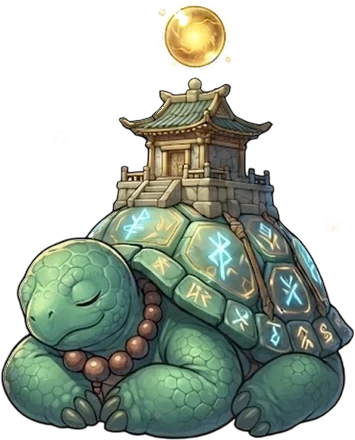
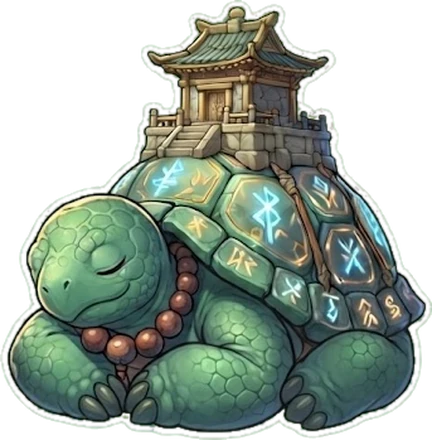
Compagnons couchés : nouvelles images sur fond uni, détourage propre (sans liseré blanc ni vert)
Claude-Session: https://claude.ai/code/session_014VBvzn7cPipHkoepy8RC9p

diff --git a/index.html b/index.html
@@ -6000,7 +6000,7 @@ var COMP = {
     pup: [{eyes: [[0.27, 0.355, 0.045, 0.045], [-1, -1, 0.01, 0.01]], head: [[0.18, 0.36], [0.32, 0.46], 0.25], tail: [[0.5, 0.3], [0.52, 0.12], 0.15], glow: [[0.52, 0.12, 0.12]], ts: 0.5},
       {eyes: [[0.18, 0.415, 0.03, 0.03], [-1, -1, 0.01, 0.01]], head: [[0.16, 0.42], [0.28, 0.48], 0.16], tail: [[0.55, 0.25], [0.56, 0.12], 0.14], glow: [[0.56, 0.14, 0.08], [0.65, 0.45, 0.2]], ts: 0.5},
       {eyes: [[0.177, 0.473, 0.025, 0.02], [-1, -1, 0.01, 0.01]], head: [[0.15, 0.49], [0.27, 0.55], 0.14], tail: [[0.45, 0.25], [0.45, 0.05], 0.1], glow: [[0.45, 0.04, 0.08], [0.7, 0.55, 0.2]], ts: 0.5}]}};
-var COMP_SL = {"panda":[[532,440,34,7],[724,440,35,6],[553,440,32,2]],"rhino":[[579,440,30,2],[636,440,29,4],[548,440,21,21]],"axolotl":[[457,440,28,13],[426,440,46,9],[562,440,35,4]],"lion":[[524,440,34,2],[577,440,32,7],[453,440,46,2]],"sanglier":[[564,440,29,7],[532,440,31,11],[463,440,35,2]],"panthere":[[727,440,42,2],[707,440,71,11],[795,440,47,25]],"ours":[[502,440,20,19],[633,440,35,34],[625,440,23,15]],"pegase":[[666,440,27,2],[689,440,19,10],[604,440,22,2]],"renard":[[460,440,39,2],[609,440,17,6],[572,440,17,15]],"tortue":[[600,440,22,27],[424,440,14,52],[355,440,26,56]]}; // images couchées (largeur, hauteur, point au-dessus de la tête en %) pour le Repos
+var COMP_SL = {"panda":[[533,440,28,4],[580,356,22,2],[550,440,15,3]],"rhino":[[492,376,25,2],[600,418,28,3],[387,440,28,4]],"axolotl":[[398,404,33,12],[428,440,58,15],[414,440,18,2]],"lion":[[502,420,28,3],[579,440,22,2],[351,440,30,2]],"sanglier":[[478,376,20,3],[529,440,12,8],[361,440,18,2]],"panthere":[[506,304,36,6],[550,366,75,12],[509,440,30,5]],"ours":[[480,420,28,14],[562,390,33,12],[414,440,26,10]],"pegase":[[474,314,20,2],[596,376,14,3],[392,440,8,6]],"renard":[[390,374,40,3],[596,426,22,14],[418,440,10,18]],"tortue":[[460,342,18,10],[424,440,18,42],[432,440,20,44]]}; // images couchées (largeur, hauteur, point au-dessus de la tête en %) pour le Repos
 var HATCH_LV = 5; // le premier œuf éclot au niveau 5 (environ 3 séances)
 var COMP_LIVE = true; // false = compagnons visibles seulement dans le mode test (Réglages, 7 touches sur la version)
 const compList = () => Object.keys(COMP).filter(k => COMP[k].ok); // créatures qu'on peut choisir maintenant
@@ -6226,7 +6226,7 @@ function compSrc(k) {
 }
 function compArt(k, cls = '') {
   const sl = k.st >= 0 && k.mood === 'sleep' && COMP[k.sp] && (COMP_SL[k.sp] || [])[Math.min(k.st, 2)];
-  if (sl) { const src = `comp/${COMP[k.sp].f}${Math.min(k.st, 2)}s.webp?v=3`; // v= : à augmenter quand on remplace ces images (sinon l'ancienne reste en cache) // au repos le compagnon dort couché : image dédiée, respiration lente, « z » au-dessus de sa tête
+  if (sl) { const src = `comp/${COMP[k.sp].f}${Math.min(k.st, 2)}s.webp?v=4`; // v= : à augmenter quand on remplace ces images (sinon l'ancienne reste en cache) // au repos le compagnon dort couché : image dédiée, respiration lente, « z » au-dessus de sa tête
     return `<div class="cpw ${cls} slp m-sleep${k.st === 3 ? ' gold' : ''}" style="--cpm:url(${src})"><span class="cpsq" style="width:${Math.min(100, sl[0] / sl[1] * 100).toFixed(1)}%;aspect-ratio:${sl[0]}/${sl[1]};--zx:${sl[2]}%;--zy:${sl[3]}%"><img src="${src}" onerror="this.onerror=null;this.src='${k.img}'" alt="${esc(k.name)}" loading="lazy"><i class="cpfx">z</i><i class="cpfx b">z</i></span></div>`; }
   const own = k.st >= 0 && (COMP_MOODV[k.img.slice(5, -5)] || []).includes(k.mood), D = COMP[k.sp], pc = k.st >= 0 && D && D.pup && D.pup[Math.min(k.st, 2)];
   if (pc && !compStill() && pupOk()) return `<div class="cpw ${cls} pup m-${k.mood}${k.st === 3 ? ' gold' : ''}" style="--cpm:url(${k.img})"><rl-pup src="${k.img}" mood="${k.mood}" cfg='${JSON.stringify(pc)}'></rl-pup><i class="cpfx">${k.mood === 'sleep' ? 'z' : k.mood === 'sad' ? '💧' : '✦'}</i><i class="cpfx b">${k.mood === 'sleep' ? 'z' : '✦'}</i></div>`;
@@ -7442,7 +7442,7 @@ function doImport() {
 
 
 /* ===================== Nouveautés (à mettre à jour à chaque version) ===================== */
-const APP_VERSION = '9.126.2'; // ⚠ Mettre aussi le même numéro dans version.json (sinon pas de mise à jour automatique)
+const APP_VERSION = '9.126.3'; // ⚠ Mettre aussi le même numéro dans version.json (sinon pas de mise à jour automatique)
 /* Notes de mise à jour : UNE seule entrée par jour. Si une entrée existe déjà pour aujourd'hui, mets-la à jour (v = dernière version, ajoute/réécris les puces) au lieu d'en ajouter une nouvelle. */
 const CHANGELOG = [
   {v: '9.126.0', d: '2026-11-24', fr: ['Nouveau : les compagnons arrivent. À ton premier niveau 5, ton œuf éclot et tu choisis ton compagnon parmi 10 créatures. Il grandit avec votre lien (cœurs gagnés en t\'entraînant, en battant des records, en finissant tes quêtes), prend 4 formes et dort couché quand tu te reposes. Il ne perd jamais rien si tu t\'absentes.'], en: ['New: companions are here. At your first level 5 your egg hatches and you choose your companion among 10 creatures. It grows with your bond (hearts earned by training, beating records, finishing quests), takes 4 forms and sleeps lying down when you rest. It never loses anything if you take a break.']},
